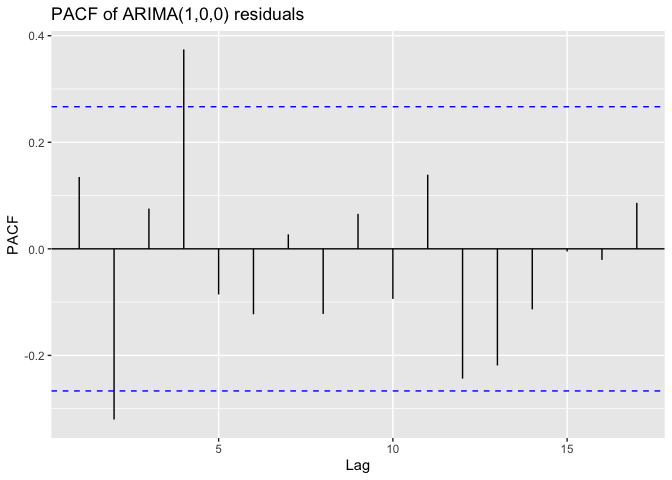
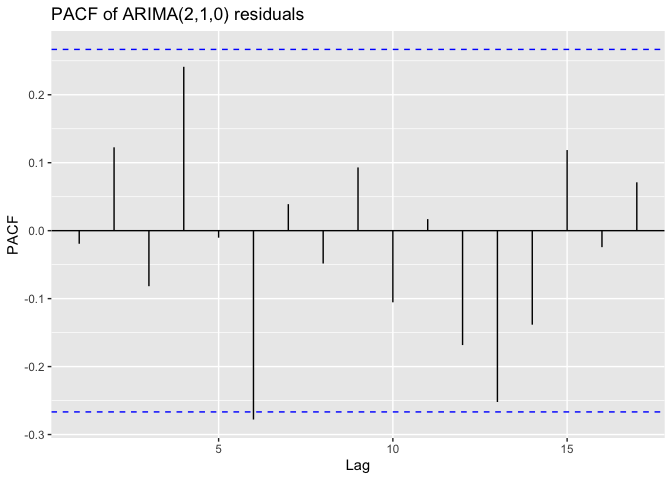
revision

diff --git a/Univariate-Time-Series-Analysis.md b/Univariate-Time-Series-Analysis.md
@@ -80,78 +80,75 @@ The function generated the following estimates \* *sales*: ARIMA(2,0,0)
 
 Anything automatic is dangerous. Lets try it manually.
 
-At first sight, the trends for both plots seem to be statistically
-stationary. This can be confirmed with a Unit Root Test
-
-``` r
-sales %>% ur.kpss() %>% summary() #stationary could also use ndiffs(sales) to find the proper number of differences
-```
-
-    ## 
-    ## ####################### 
-    ## # KPSS Unit Root Test # 
-    ## ####################### 
-    ## 
-    ## Test is of type: mu with 3 lags. 
-    ## 
-    ## Value of test-statistic is: 0.1794 
-    ## 
-    ## Critical value for a significance level of: 
-    ##                 10pct  5pct 2.5pct  1pct
-    ## critical values 0.347 0.463  0.574 0.739
-
-``` r
-advertising %>% ur.kpss() %>% summary()
-```
-
-    ## 
-    ## ####################### 
-    ## # KPSS Unit Root Test # 
-    ## ####################### 
-    ## 
-    ## Test is of type: mu with 3 lags. 
-    ## 
-    ## Value of test-statistic is: 0.2121 
-    ## 
-    ## Critical value for a significance level of: 
-    ##                 10pct  5pct 2.5pct  1pct
-    ## critical values 0.347 0.463  0.574 0.739
-
-The unit root tests confirm the stationarity of the data, thus there is
-no need to difference the data. The next section estimates the Sales
-ARIMA model manually.
+The data seems to be non-stationary. This can be confirmed with a Unit
+Root Test.
 
 ### Sales
 
-The plots below show that the ACF plot dies out and that there are
-spikes at *p=2* lags. The first model we can try is an ARIMA(2,0,0)
-
 ``` r
-ggAcf(sales) + ggtitle("ACF of Sales") # acf of sales
+d1sales <- diff(sales)
+d2sales <- diff(d1sales)
+adf.test(sales)  #stationary could also use ndiffs(sales) to find the proper number of differences
 ```
 
-![](Univariate-Time-Series-Analysis_files/figure-gfm/ACF%20PACF%20of%20sales-1.png)<!-- -->
+    ## 
+    ##  Augmented Dickey-Fuller Test
+    ## 
+    ## data:  sales
+    ## Dickey-Fuller = -2.3883, Lag order = 3, p-value = 0.4181
+    ## alternative hypothesis: stationary
 
 ``` r
-ggPacf(sales) + ggtitle("PACF of Sales") # pacf of sales
+adf.test(d1sales)
 ```
 
-![](Univariate-Time-Series-Analysis_files/figure-gfm/ACF%20PACF%20of%20sales-2.png)<!-- -->
+    ## 
+    ##  Augmented Dickey-Fuller Test
+    ## 
+    ## data:  d1sales
+    ## Dickey-Fuller = -2.8116, Lag order = 3, p-value = 0.2478
+    ## alternative hypothesis: stationary
 
 ``` r
-(fit2 <- Arima(sales, order=c(2,0,0)))
+adf.test(d2sales)  
+```
+
+    ## Warning in adf.test(d2sales): p-value smaller than printed p-value
+
+    ## 
+    ##  Augmented Dickey-Fuller Test
+    ## 
+    ## data:  d2sales
+    ## Dickey-Fuller = -4.8476, Lag order = 3, p-value = 0.01
+    ## alternative hypothesis: stationary
+
+``` r
+d2sales %>% ggtsdisplay(main="")
+```
+
+![](Univariate-Time-Series-Analysis_files/figure-gfm/unit%20root%20sales-1.png)<!-- -->
+
+The unit root tests show that the sales data, and its first order
+difference, is in not stationary. We use second order difference for
+sales data.
+
+For the sales model, we see that PACF spikes at 2 lags. We will try
+ARIMA(2,2,0)
+
+``` r
+(fit2 <- Arima(sales, order=c(2,2,0)))
 ```
 
     ## Series: sales 
-    ## ARIMA(2,0,0) with non-zero mean 
+    ## ARIMA(2,2,0) 
     ## 
     ## Coefficients:
-    ##          ar1      ar2       mean
-    ##       1.3718  -0.4737  1738.7843
-    ## s.e.  0.1171   0.1195   254.8003
+    ##           ar1      ar2
+    ##       -0.2714  -0.3236
+    ## s.e.   0.1304   0.1287
     ## 
-    ## sigma^2 estimated as 42688:  log likelihood=-364.21
-    ## AIC=736.41   AICc=737.23   BIC=744.37
+    ## sigma^2 estimated as 55779:  log likelihood=-357.06
+    ## AIC=720.11   AICc=720.61   BIC=725.96
 
 ``` r
 checkresiduals(fit2)
@@ -162,90 +159,76 @@ checkresiduals(fit2)
     ## 
     ##  Ljung-Box test
     ## 
-    ## data:  Residuals from ARIMA(2,0,0) with non-zero mean
-    ## Q* = 6.9593, df = 7, p-value = 0.4331
+    ## data:  Residuals from ARIMA(2,2,0)
+    ## Q* = 8.7376, df = 8, p-value = 0.3649
     ## 
-    ## Model df: 3.   Total lags used: 10
-
-``` r
-ggPacf(fit2$residuals) + ggtitle("PACF of ARIMA(2,0,0) residuals")
-```
-
-![](Univariate-Time-Series-Analysis_files/figure-gfm/check%20residuals%20SALES-2.png)<!-- -->
-
-The ACF and PACF plots remain within the confidence interval, except for
-lag-13 (one of the lags outside the confidence interval is within the
-margin of error)
+    ## Model df: 2.   Total lags used: 10
 
 ### Advertising
 
 ``` r
-ggAcf(advertising) + ggtitle("ACF of Advertising") # acf of advertising
+d1advertising <- diff(advertising)
+d2advertising <- diff(d1advertising)
+adf.test(advertising) 
 ```
 
-![](Univariate-Time-Series-Analysis_files/figure-gfm/ACF%20PACF%20of%20advertising-1.png)<!-- -->
+    ## 
+    ##  Augmented Dickey-Fuller Test
+    ## 
+    ## data:  advertising
+    ## Dickey-Fuller = -1.5545, Lag order = 3, p-value = 0.7539
+    ## alternative hypothesis: stationary
 
 ``` r
-ggPacf(advertising) + ggtitle("PACF of Advertising") # pacf of advertising
+adf.test(d1advertising) 
 ```
 
-![](Univariate-Time-Series-Analysis_files/figure-gfm/ACF%20PACF%20of%20advertising-2.png)<!-- -->
-
-ACF seems to be dying out and there is a spike at *p=1* lags. We can
-start with an ARIMA(1,0,0) model
+    ## 
+    ##  Augmented Dickey-Fuller Test
+    ## 
+    ## data:  d1advertising
+    ## Dickey-Fuller = -2.994, Lag order = 3, p-value = 0.1744
+    ## alternative hypothesis: stationary
 
 ``` r
-(fit3 <- Arima(advertising, order=c(1,0,0)))
+adf.test(d2advertising) 
+```
+
+    ## Warning in adf.test(d2advertising): p-value smaller than printed p-value
+
+    ## 
+    ##  Augmented Dickey-Fuller Test
+    ## 
+    ## data:  d2advertising
+    ## Dickey-Fuller = -5.9856, Lag order = 3, p-value = 0.01
+    ## alternative hypothesis: stationary
+
+``` r
+d2advertising %>% ggtsdisplay(main="")
+```
+
+![](Univariate-Time-Series-Analysis_files/figure-gfm/unit%20root%20advertising-1.png)<!-- -->
+The unit root tests show that the advertising data, and its first order
+difference, is in not stationary. We use second order difference for
+sales data.
+
+There is are spike at *q=2* lags in the ACF plot. We can try an
+ARIMA(0,2,2) model
+
+``` r
+(fit4 <- Arima(advertising, order=c(0,2,2)))
 ```
 
     ## Series: advertising 
-    ## ARIMA(1,0,0) with non-zero mean 
+    ## ARIMA(0,2,2) 
     ## 
     ## Coefficients:
-    ##          ar1      mean
-    ##       0.8224  883.6361
-    ## s.e.  0.0747  149.5104
+    ##           ma1      ma2
+    ##       -0.7953  -0.2047
+    ## s.e.   0.1966   0.1875
     ## 
-    ## sigma^2 estimated as 45306:  log likelihood=-365.64
-    ## AIC=737.28   AICc=737.76   BIC=743.25
-
-``` r
-checkresiduals(fit3)
-```
-
-![](Univariate-Time-Series-Analysis_files/figure-gfm/check%20residuals%20ADV%20100-1.png)<!-- -->
-
-    ## 
-    ##  Ljung-Box test
-    ## 
-    ## data:  Residuals from ARIMA(1,0,0) with non-zero mean
-    ## Q* = 28.417, df = 8, p-value = 0.0004011
-    ## 
-    ## Model df: 2.   Total lags used: 10
-
-``` r
-ggPacf(fit3$residuals) + ggtitle("PACF of ARIMA(1,0,0) residuals")
-```
-
-![](Univariate-Time-Series-Analysis_files/figure-gfm/check%20residuals%20ADV%20100-2.png)<!-- -->
-
-There is a spike at *q=2* lags in the ACF plot. We can try an
-ARIMA(1,0,2) model
-
-``` r
-(fit4 <- Arima(advertising, order=c(1,0,2)))
-```
-
-    ## Series: advertising 
-    ## ARIMA(1,0,2) with non-zero mean 
-    ## 
-    ## Coefficients:
-    ##          ar1     ma1      ma2      mean
-    ##       0.8480  0.1172  -0.1889  878.0911
-    ## s.e.  0.1042  0.1766   0.1391  157.0358
-    ## 
-    ## sigma^2 estimated as 43568:  log likelihood=-363.61
-    ## AIC=737.21   AICc=738.46   BIC=747.16
+    ## sigma^2 estimated as 50408:  log likelihood=-356.11
+    ## AIC=718.23   AICc=718.73   BIC=724.08
 
 ``` r
 checkresiduals(fit4)
@@ -256,19 +239,10 @@ checkresiduals(fit4)
     ## 
     ##  Ljung-Box test
     ## 
-    ## data:  Residuals from ARIMA(1,0,2) with non-zero mean
-    ## Q* = 18.368, df = 6, p-value = 0.005376
+    ## data:  Residuals from ARIMA(0,2,2)
+    ## Q* = 32.282, df = 8, p-value = 8.291e-05
     ## 
-    ## Model df: 4.   Total lags used: 10
-
-``` r
-ggPacf(fit4$residuals) + ggtitle("PACF of ARIMA(1,0,2) residuals")
-```
-
-![](Univariate-Time-Series-Analysis_files/figure-gfm/check%20residuals%20ADV%20102-2.png)<!-- -->
-
-The auto-ARIMA estimated an ARIMA(1,0,1) with an AIC of 736.4. The
-automatic function was better in this case.
+    ## Model df: 2.   Total lags used: 10
 
 ## PL shares
 
